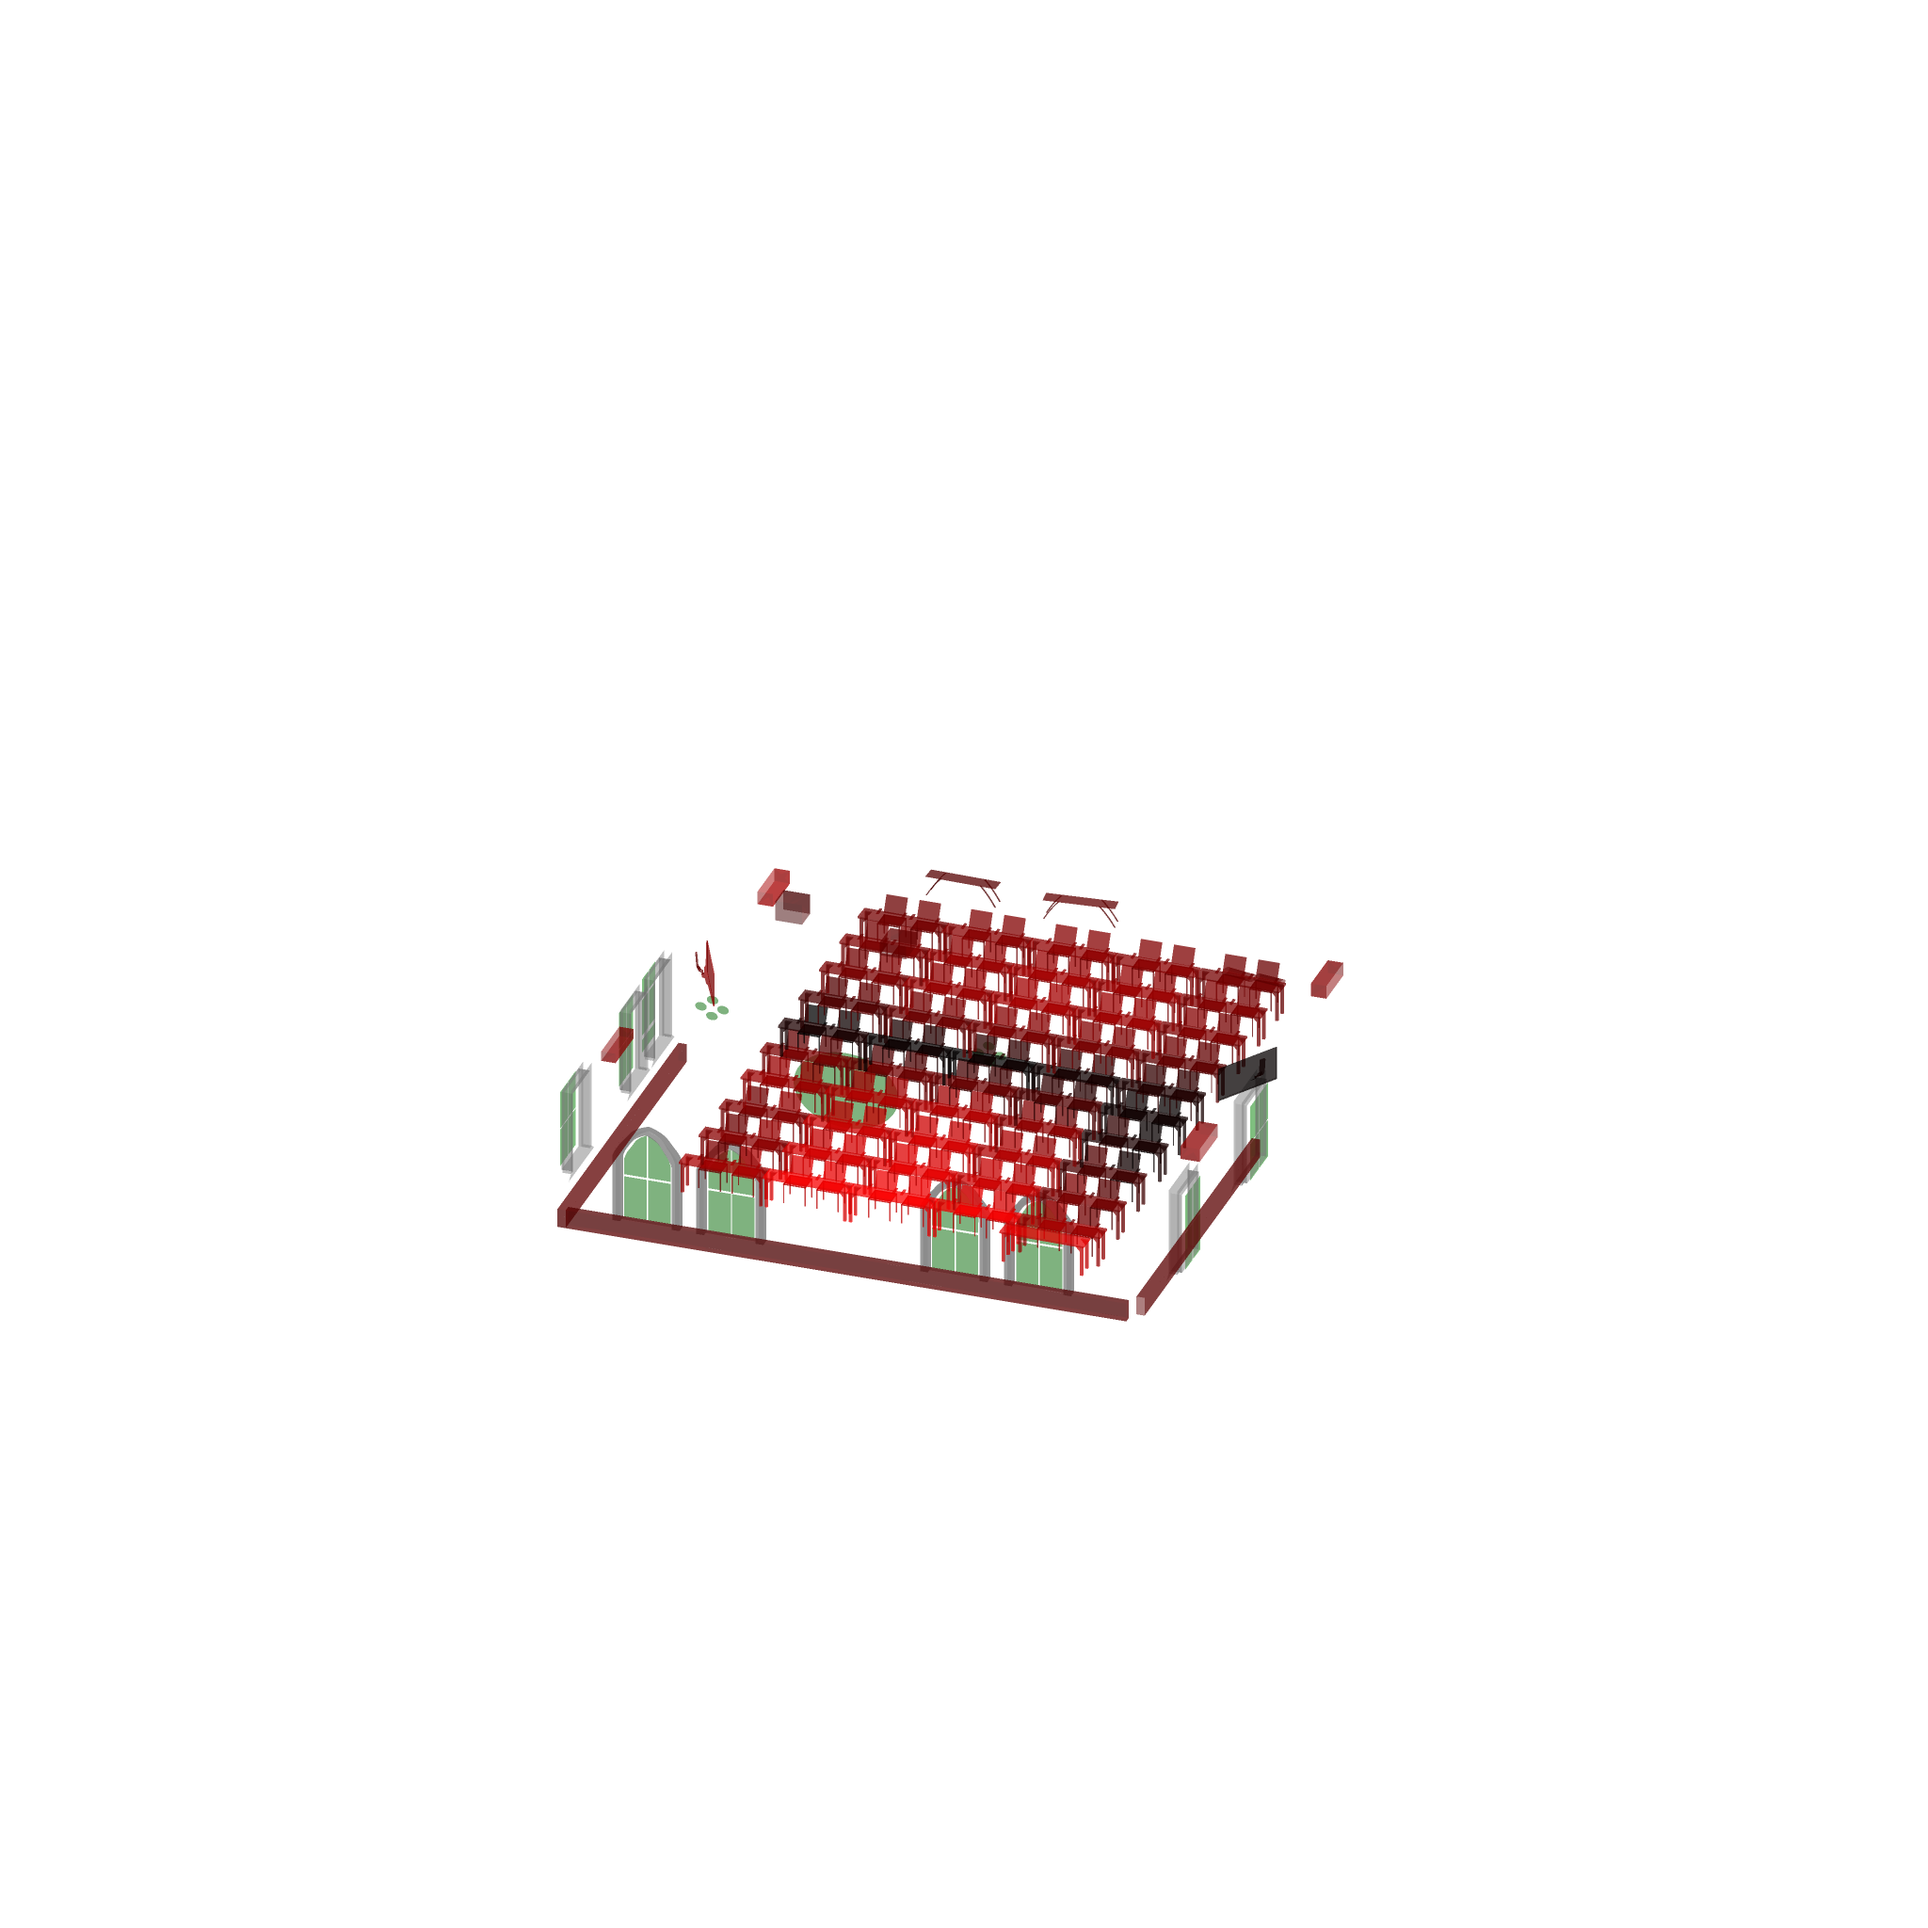
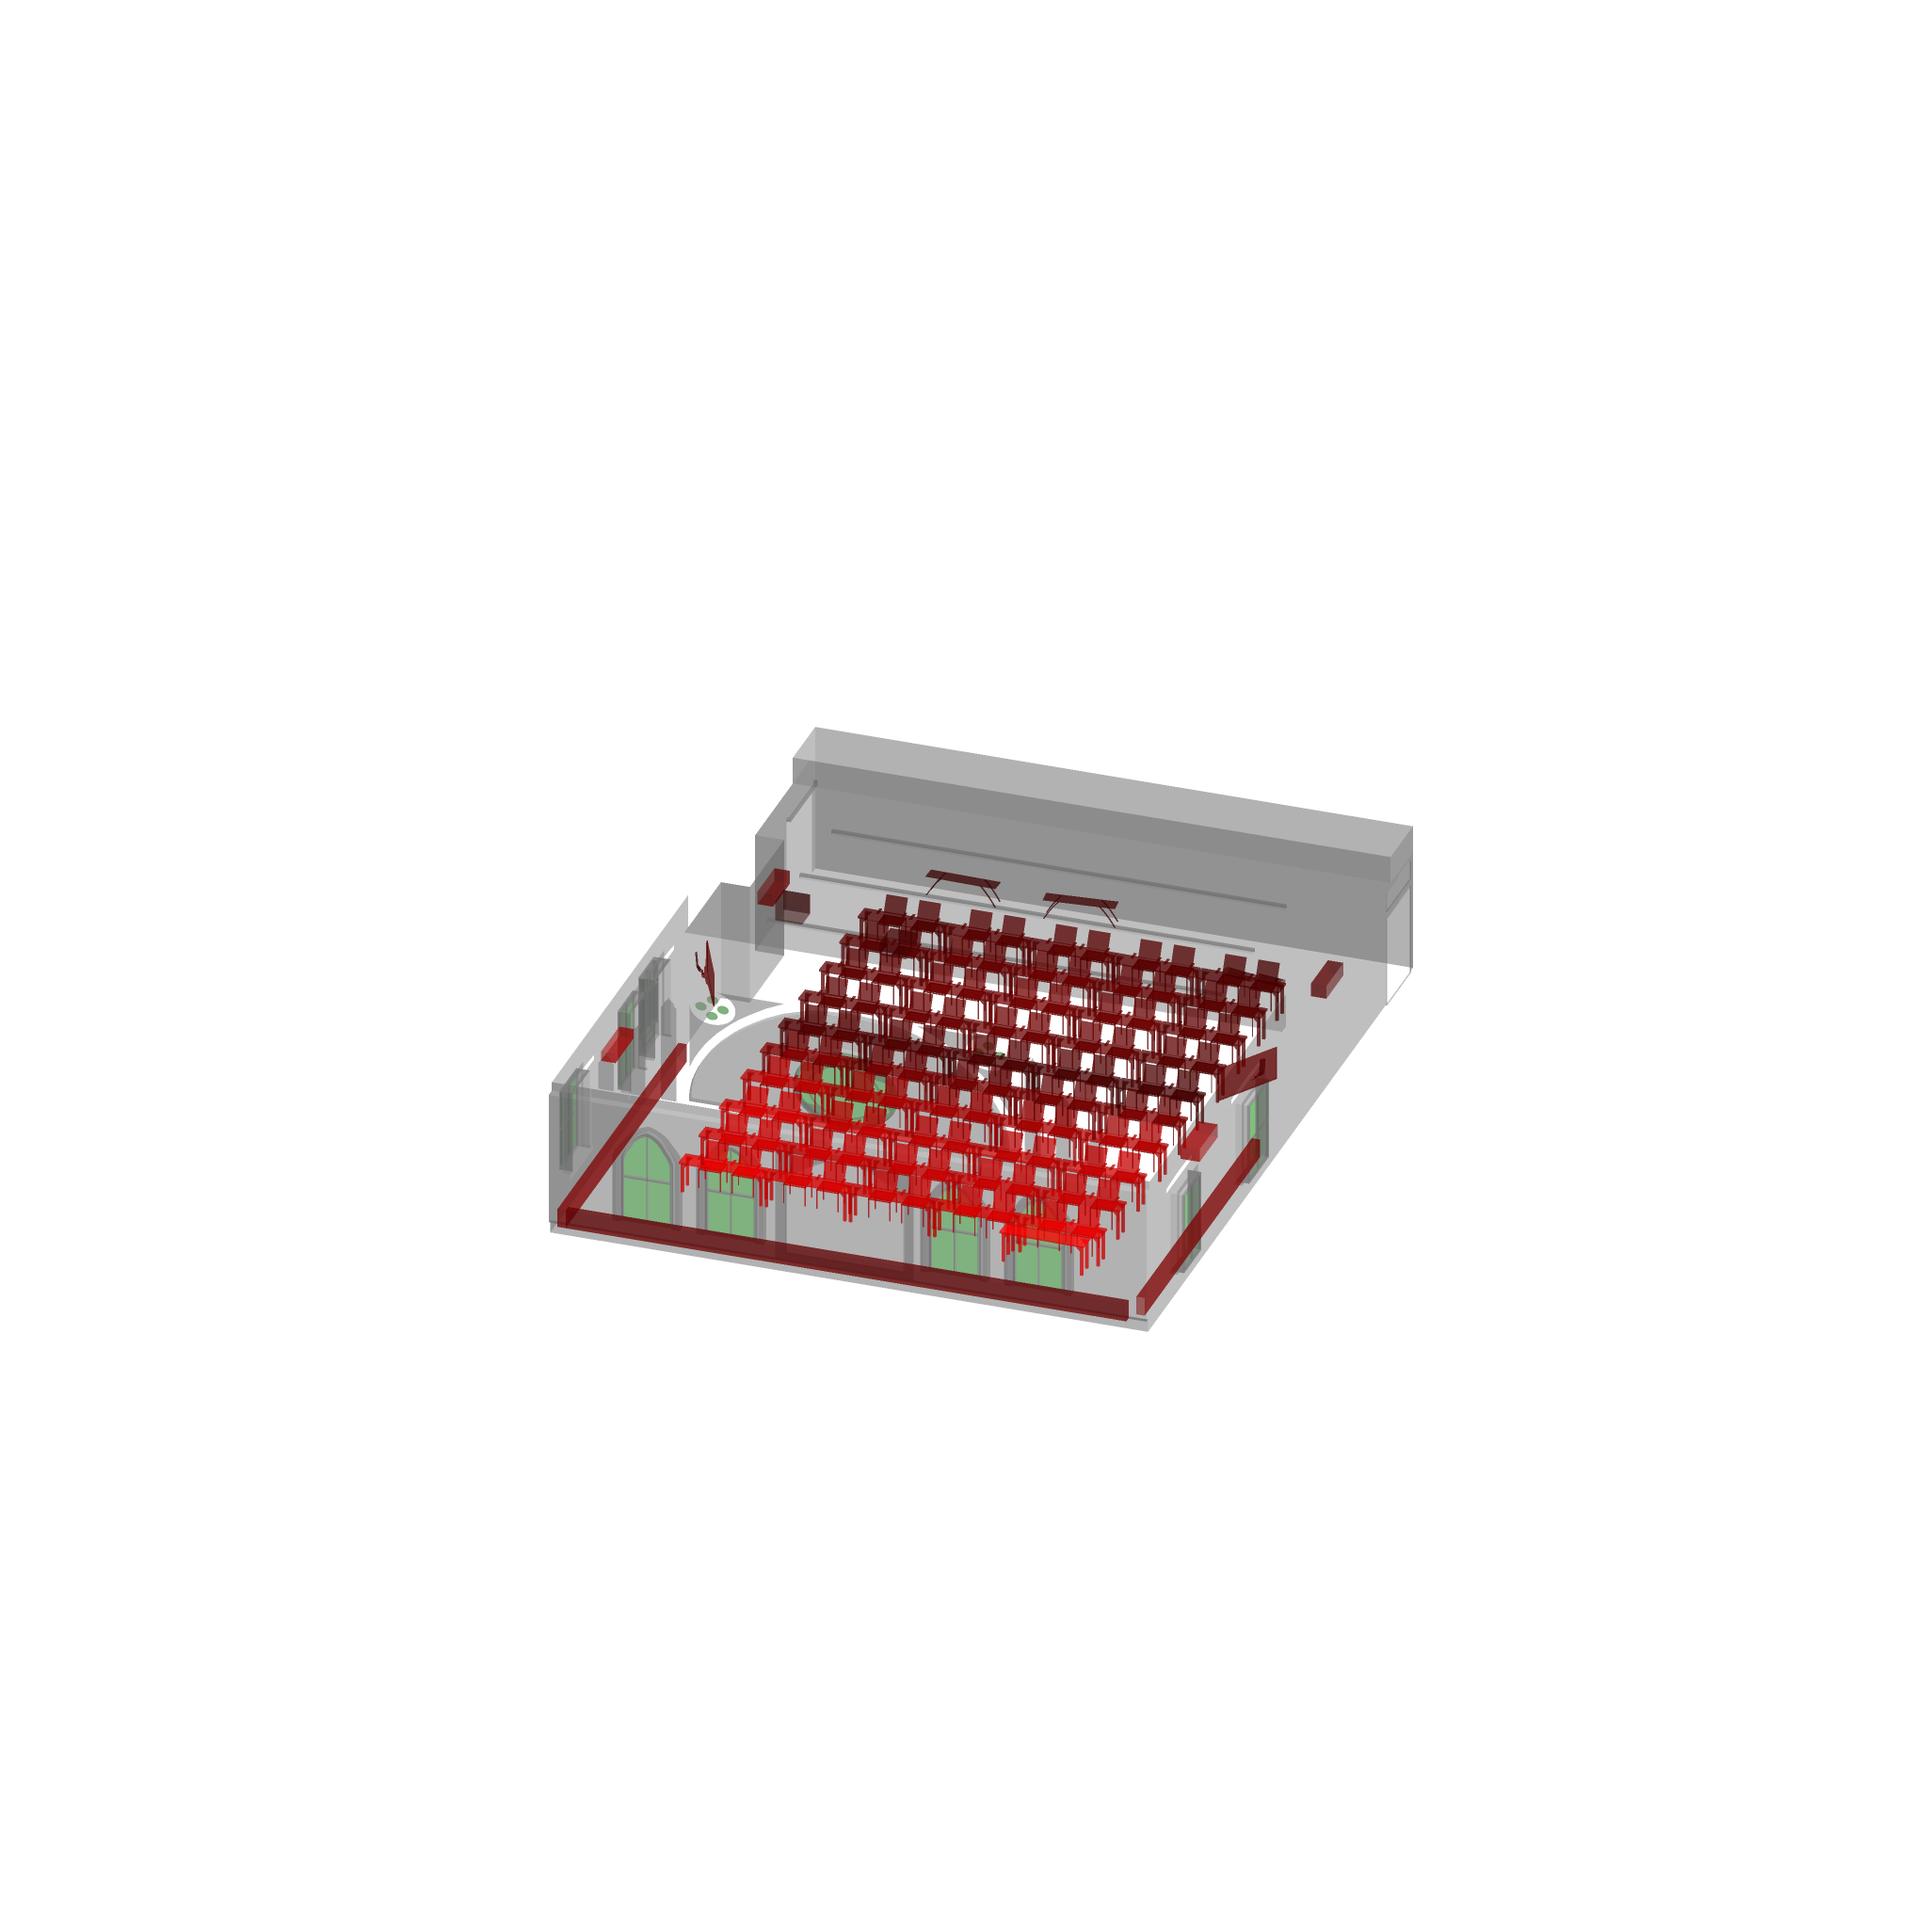
solid angle calculation bug fix

Changed region(s): [[0.2812, 0.375, 0.75, 0.6875]]

diff --git a/input_station.py b/input_station.py
@@ -81,14 +81,14 @@ class Thresholds:
                     window_center = tri.mean(axis=0)
                     #if self.is_visible(window_center, j):
                         # print(str(j) + " is visible" + "from winow" + str(tri.mean(axis=0)))
-                    if 1==1:
-                        a, b, c = tri - mesh.centroid
+                    if 1==1: # ignore visibility for now
+                        a, b, c = tri - mesh.centroid 
                         norm = np.linalg.norm(np.cross(b - a, c - a))
-                        volume = np.dot(np.cross(b - a, c - a), np.array([0.0, 0.0, 0.0]) - a) / 6.0
+                        volume = np.dot(np.cross(b - a, c - a), np.array([0.0, 0.0, 0.0]) - a) / 6.0 
                         angle = 2 * np.arctan2(volume, np.dot(a, b) * np.linalg.norm(c) + 
                                                     np.dot(b, c) * np.linalg.norm(a) + 
                                                     np.dot(c, a) * np.linalg.norm(b))
-                        total_solid_angle += angle
+                        total_solid_angle += abs(angle)
                     #else:
                         #print(str(j) + " is NOT visible" + "from winow" + str(tri.mean(axis=0)))
                         
@@ -102,9 +102,6 @@ class Thresholds:
                                                         'solid_angle': solid_angle},
                                                     'file_address': j,
                                                     'mesh': mesh}})
-        
-            
-
         self.min_value = min(values_of_interest)
         self.max_value = max(values_of_interest)
         self.thresholds = np.linspace(self.min_value,self.max_value,10)
